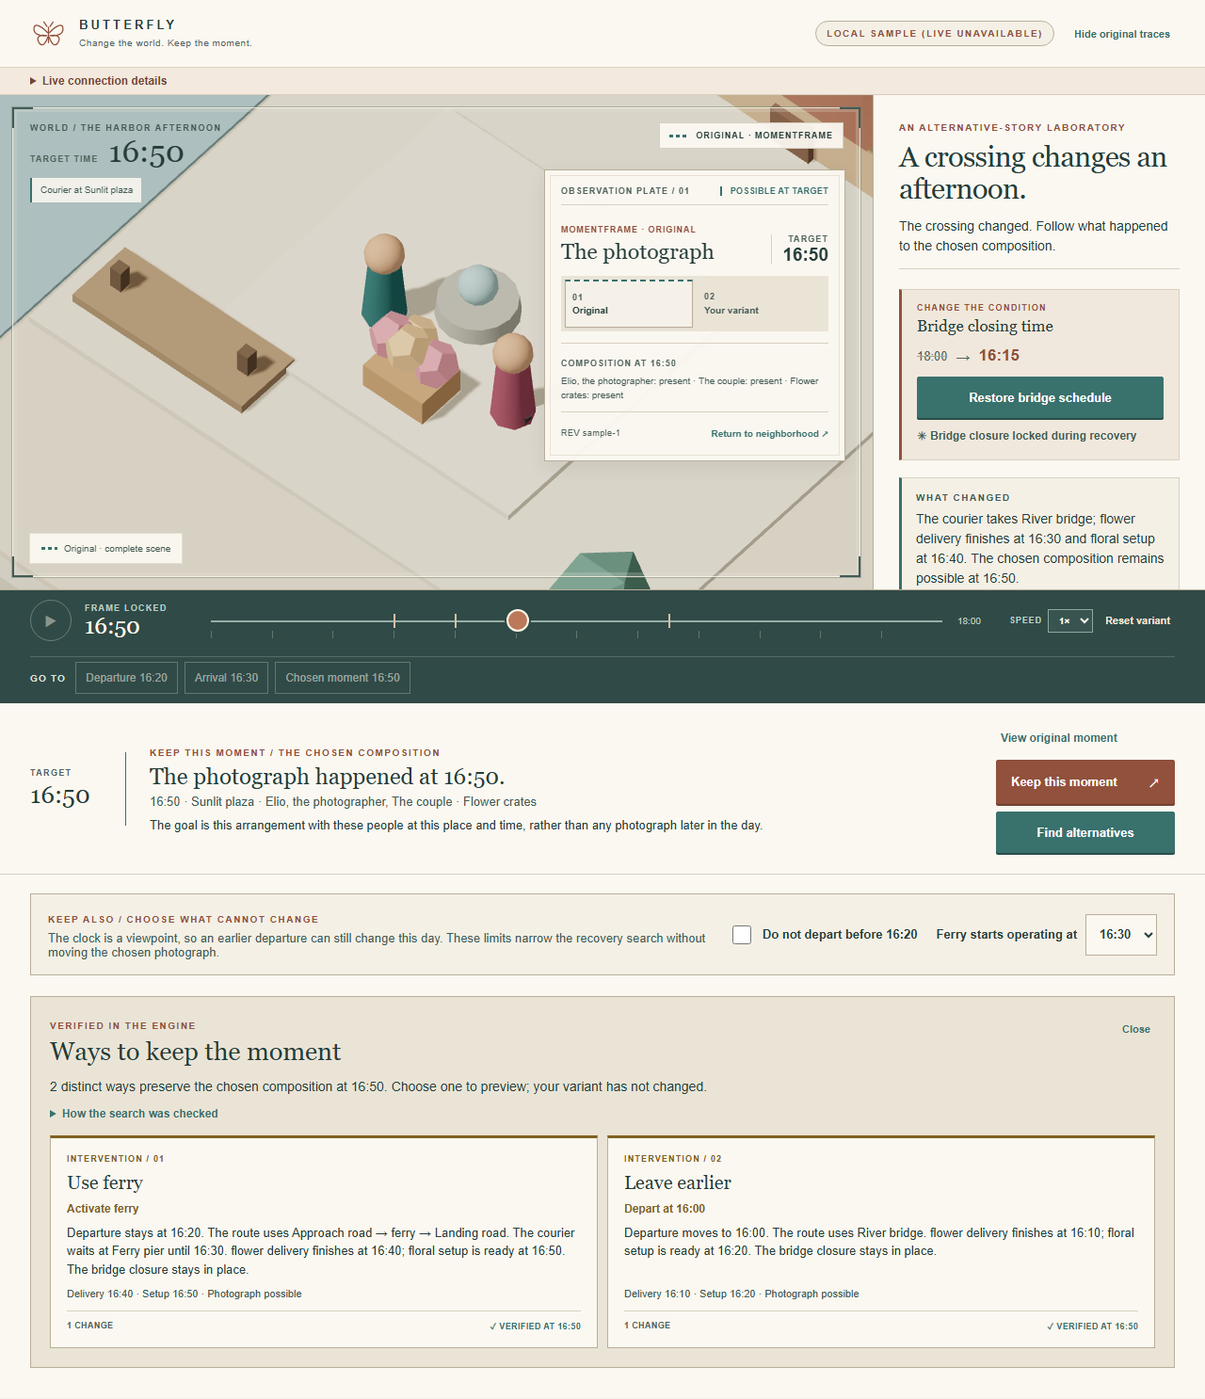
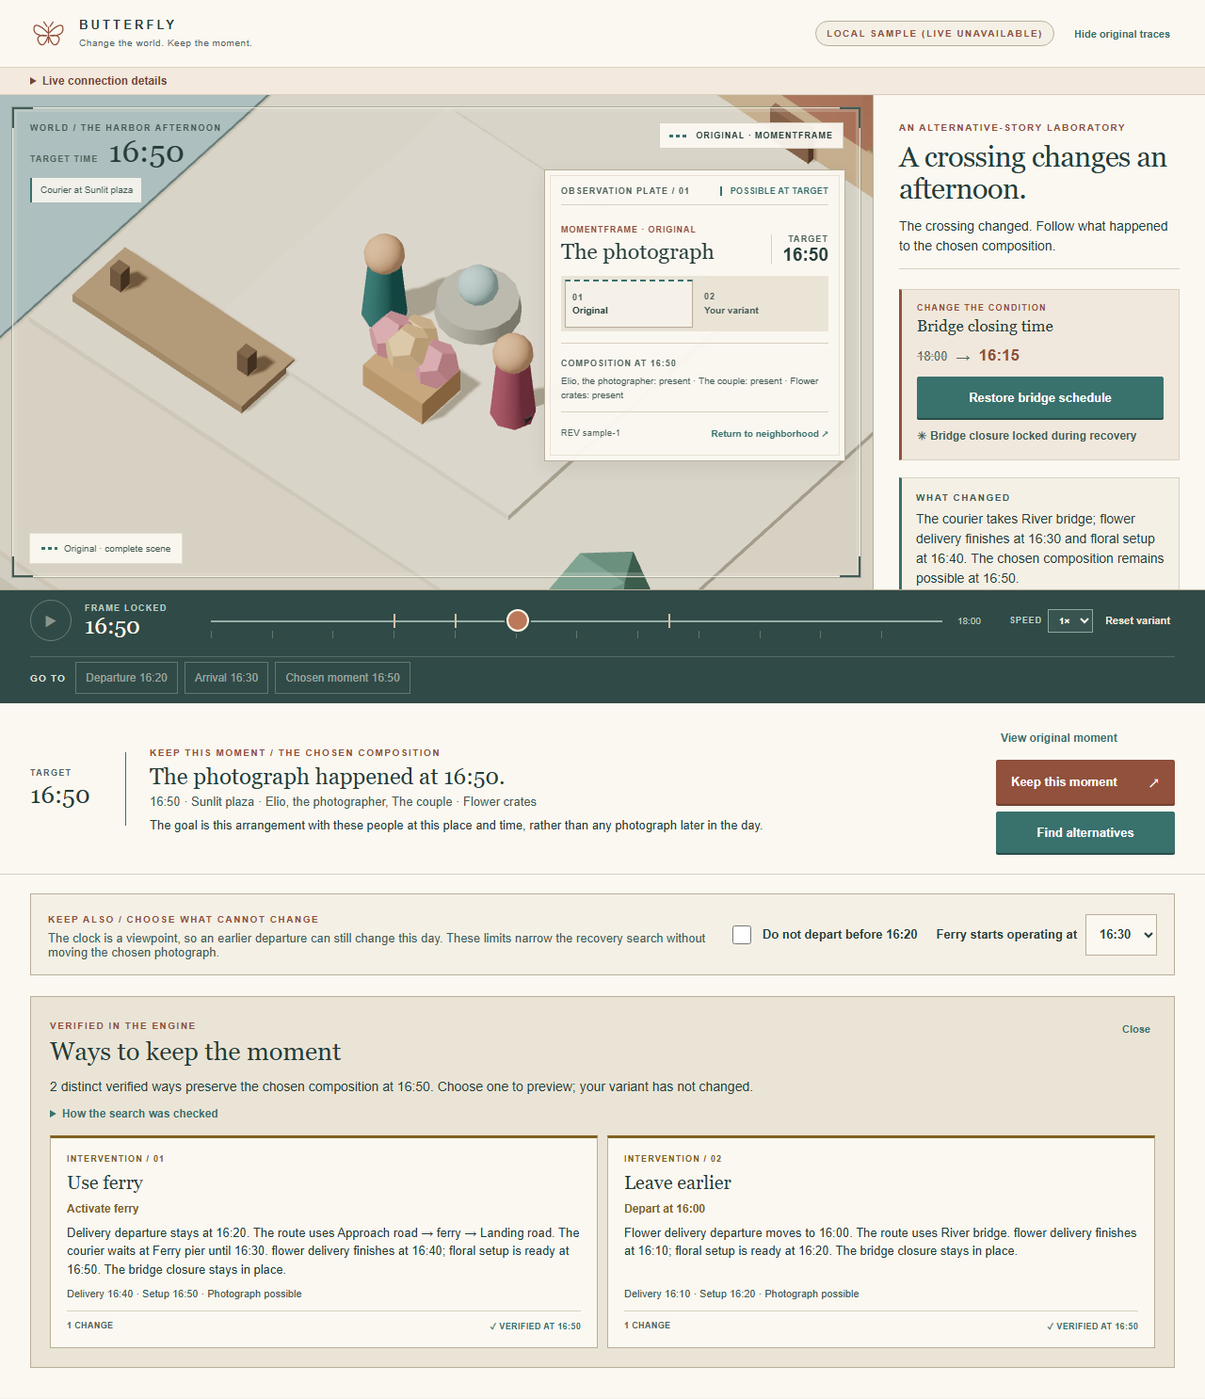
Correct recovery counts and event-specific explanations

Changed region(s): [[0.0625, 0.8668, 0.4688, 0.9287], [0.0938, 0.7739, 0.625, 0.8048], [0.5, 0.8668, 0.9375, 0.8977]]

diff --git a/src/ui/Experience.tsx b/src/ui/Experience.tsx
@@ -548,16 +548,16 @@ export default function Experience({ initialWorld, source, error }: { initialWor
               <div><span className="eyebrow">VERIFIED IN THE ENGINE</span><h2>{search.status === "found" ? "Ways to keep the moment" : search.status === "limit-reached" && search.alternatives.length ? "Verified options from a partial search" : search.status === "already-satisfied" ? "Already possible" : search.status === "indeterminate" ? "Result indeterminate" : "No alternative in this domain"}</h2></div>
               <button className="quiet" onClick={() => { setSearch(null); setPreviewId(null); setSceneVersion("variant"); }}>Close</button>
             </div>
-            <p className="search-outcome">{search.status === "found" ? `${search.alternatives.length} distinct ways preserve the chosen composition at ${displayTime(goal.time)}. Choose one to preview; your variant has not changed.` : search.status === "exhausted" ? `With these limits, none of the ${search.domainSize} allowed candidate changes preserves the composition at ${displayTime(goal.time)}. You can allow an earlier departure or change the ferry opening. This conclusion covers only the configured domain.` : search.status === "already-satisfied" ? "Your current variant already preserves the chosen composition." : search.status === "limit-reached" ? "The candidate limit was reached. The remaining domain has not been checked." : "Incomplete world data leaves the result unsettled."}</p>
-            <details className="search-method"><summary>How the search was checked</summary><p>Checked {search.examined} of {search.domainSize} candidates, with at most {search.maxInterventions} interventions and a limit of {search.maxCandidates} candidates. Fewer changes rank first, then smaller time shifts. {search.groupedCount} redundant combinations were omitted from the main cards because their extra operations did not change event outcomes, route IDs or article compatibility. Separate interventions remain separate cards. {search.status === "limit-reached" && "A reached limit does not prove impossibility."}</p></details>
+            <p className="search-outcome">{search.status === "found" ? `${search.meaningfulCount} distinct verified ${search.meaningfulCount === 1 ? "way preserves" : "ways preserve"} the chosen composition at ${displayTime(goal.time)}. ${search.meaningfulCount > search.alternatives.length ? `Showing the first ${search.alternatives.length} intervention cards. ` : ""}Choose one to preview; your variant has not changed.` : search.status === "exhausted" ? `With these limits, none of the ${search.domainSize} allowed candidate changes preserves the composition at ${displayTime(goal.time)}. You can allow an earlier departure or change the ferry opening. This conclusion covers only the configured domain.` : search.status === "already-satisfied" ? "Your current variant already preserves the chosen composition." : search.status === "limit-reached" ? "The candidate limit was reached. The remaining domain has not been checked." : "Incomplete world data leaves the result unsettled."}</p>
+            <details className="search-method"><summary>How the search was checked</summary><p>Checked {search.examined} of {search.domainSize} candidates, with at most {search.maxInterventions} interventions and a limit of {search.maxCandidates} candidates. Fewer changes rank first, then smaller time shifts. {search.meaningfulCount} nonredundant verified intervention choices were found among the checked candidates; {search.alternatives.length} are shown as cards. {search.groupedCount} redundant combinations were omitted from the main cards because their extra operations did not change event outcomes, route IDs or article compatibility. Separate interventions remain separate cards. {search.status === "limit-reached" && "A reached limit does not prove impossibility."}</p></details>
             <div className="cards">
               {search.alternatives.map((alternative, index) => {
                 const previewDelivery = getEvent(alternative.result, roles.deliveryEventId);
                 const previewSetup = getEvent(alternative.result, roles.setupEventId);
                 const changes = alternative.operations.map(operation => operation.type === "setEventTime"
-                  ? "Depart at " + displayTime(operation.value)
+                  ? operation.eventId === roles.deliveryEventId ? "Depart at " + displayTime(operation.value) : `Set ${initialWorld.events.find(event => event.id === operation.eventId)?.name ?? operation.eventId} departure to ${displayTime(operation.value)}`
                   : operation.type === "enableConnection" ? (operation.value ? "Activate " : "Deactivate ") + (initialWorld.connections.find(connection => connection.id === operation.connectionId)?.label ?? operation.connectionId) : "Open route at " + displayTime(operation.value));
-                const title = alternative.operations.map(operation => operation.type === "setEventTime" ? "Leave earlier" : operation.type === "enableConnection" ? "Use " + (initialWorld.connections.find(connection => connection.id === operation.connectionId)?.label ?? operation.connectionId) : "Adjust opening").join(" + ");
+                const title = alternative.operations.map(operation => operation.type === "setEventTime" ? operation.eventId === roles.deliveryEventId ? "Leave earlier" : `Reschedule ${initialWorld.events.find(event => event.id === operation.eventId)?.name ?? operation.eventId}` : operation.type === "enableConnection" ? "Use " + (initialWorld.connections.find(connection => connection.id === operation.connectionId)?.label ?? operation.connectionId) : "Adjust opening").join(" + ");
                 return (
                   <button key={alternative.id} className={"alternative " + (previewId === alternative.id ? "chosen" : "")} onClick={() => chooseAlternative(alternative.id)} aria-label={changes.join(" and ")} aria-pressed={previewId === alternative.id}>
                     <span className="alternative-index">INTERVENTION / {String(index + 1).padStart(2, "0")}</span>

diff --git a/src/engine/search.ts b/src/engine/search.ts
@@ -3,7 +3,7 @@ import { compare, getEvent, simulate, type Simulation } from "./simulate";
 
 export type Goal = { eventId: string; time: number; placeId: string; requiredTypes: string[] };
 export type Alternative = { id: string; operations: Operation[]; result: Simulation; differences: ReturnType<typeof compare>; shiftMinutes: number };
-export type SearchResult = { status: "already-satisfied" | "found" | "exhausted" | "limit-reached" | "indeterminate"; alternatives: Alternative[]; groupedCount: number; examined: number; domainSize: number; maxCandidates: number; maxInterventions: number };
+export type SearchResult = { status: "already-satisfied" | "found" | "exhausted" | "limit-reached" | "indeterminate"; alternatives: Alternative[]; meaningfulCount: number; groupedCount: number; examined: number; domainSize: number; maxCandidates: number; maxInterventions: number };
 export type SearchConstraints = { departureNotBefore?: { eventId: string; minute: number } };
 export type SearchOptions = { maxCandidates?: number; maxInterventions?: number; constraints?: SearchConstraints };
 
@@ -24,7 +24,7 @@ export function keepThisMoment(world: World, currentPatch: RealityPatch, goal: G
   if (departure && (variant.events.find(event => event.id === departure.eventId)?.at ?? -1) < departure.minute) throw new Error("Current variant violates the departure constraint");
   const bounds = { examined: 0, domainSize: 0, maxCandidates: options.maxCandidates ?? 30, maxInterventions: options.maxInterventions ?? 2 };
   if (!Number.isInteger(bounds.maxCandidates) || bounds.maxCandidates < 0 || !Number.isInteger(bounds.maxInterventions) || bounds.maxInterventions < 1) throw new Error("Invalid search limit");
-  if (getEvent(baseline, goal.eventId).status === "possible") return { status: "already-satisfied", alternatives: [], groupedCount: 0, ...bounds };
+  if (getEvent(baseline, goal.eventId).status === "possible") return { status: "already-satisfied", alternatives: [], meaningfulCount: 0, groupedCount: 0, ...bounds };
   const operations: Operation[] = [];
   for (const i of variant.interventions) {
     if (i.type === "setEventTime") for (const value of i.values) if (value !== variant.events.find(e => e.id === i.eventId)?.at && (i.eventId !== departure?.eventId || value >= departure.minute)) operations.push({ type: "setEventTime", eventId: i.eventId, value });
@@ -57,7 +57,7 @@ export function keepThisMoment(world: World, currentPatch: RealityPatch, goal: G
     if (redundant) groupedCount++;
     else meaningful.push(alternative);
   }
-  return { status: bounds.examined < bounds.domainSize ? "limit-reached" : meaningful.length ? "found" : unknown ? "indeterminate" : "exhausted", alternatives: meaningful.slice(0, 3), groupedCount, ...bounds };
+  return { status: bounds.examined < bounds.domainSize ? "limit-reached" : meaningful.length ? "found" : unknown ? "indeterminate" : "exhausted", alternatives: meaningful.slice(0, 3), meaningfulCount: meaningful.length, groupedCount, ...bounds };
 }
 
 export function applyAlternative(world: World, patch: RealityPatch, goal: Goal, chosen: Alternative, options: SearchOptions = {}): RealityPatch {

diff --git a/tests/experience-clarity.test.ts b/tests/experience-clarity.test.ts
@@ -22,6 +22,21 @@ describe("a clearer recovery domain", () => {
     expect(search.alternatives.map(alternative => getEvent(alternative.result, "delivery").route?.connectionIds)).toEqual([["land-to-pier", "ferry", "landing-road"], ["bridge"]]);
   });
 
+  it("reports the full distinct count when the card selection is capped", () => {
+    const expanded = structuredClone(sampleWorld);
+    const overland = expanded.connections.find(connection => connection.id === "land")!;
+    for (const [id, duration] of [["short-road", 20], ["fast-road", 15]] as const) {
+      expanded.connections.push({ ...structuredClone(overland), id, label: id, duration, enabled: false });
+      expanded.interventions.push({ type: "enableConnection", connectionId: id, values: [true], precondition: { requiredMode: "van" } });
+    }
+    const result = keepThisMoment(validateWorld(expanded), closed, goal);
+    expect(result.status).toBe("found");
+    expect(result.examined).toBe(result.domainSize);
+    expect(result.meaningfulCount).toBeGreaterThan(3);
+    expect(result.alternatives).toHaveLength(3);
+    expect(result.meaningfulCount).toBeGreaterThan(result.alternatives.length);
+  });
+
   it("honors a departure limit and recomputes a later ferry opening", () => {
     const limited = keepThisMoment(sampleWorld, closed, goal, departureLimit);
     expect(limited.alternatives).toHaveLength(1);
@@ -58,5 +73,19 @@ describe("a clearer recovery domain", () => {
     expect(explainDay(applyPatch(world, closed), simulate(applyPatch(world, closed)))).toContain("Hillside lane");
     const ferry = keepThisMoment(sampleWorld, closed, goal).alternatives.find(alternative => alternative.operations.some(operation => operation.type === "enableConnection"))!;
     expect(explainIntervention(applyPatch(sampleWorld, closed), ferry.result, ferry.operations)).toContain("16:40");
+  });
+
+  it("names the actual transport when a time intervention does not move the delivery", () => {
+    const expanded = structuredClone(sampleWorld);
+    expanded.events.push({ id: "scout", worldId: expanded.id, kind: "transport", name: "Scout trip", at: 20, from: "depot", to: "plaza", mode: "van", actorIds: [], requirements: [], effects: [] });
+    expanded.interventions.push({ type: "setEventTime", eventId: "scout", values: [0, 20], precondition: { minAvailableAt: 0 } });
+    const world = validateWorld(expanded);
+    const operation = { type: "setEventTime" as const, eventId: "scout", value: 0 };
+    const variant = applyPatch(world, closed);
+    const preview = simulate(applyPatch(variant, { worldId: world.id, baseRevision: world.baseRevision, operations: [operation] }, closed.operations));
+    const explanation = explainIntervention(variant, preview, [operation]);
+    expect(explanation).toContain("Scout trip departure moves to 16:00");
+    expect(explanation).not.toContain("Flower delivery departure moves");
+    expect(getEvent(preview, "delivery").time).toBe(55);
   });
 });

diff --git a/src/ui/story.ts b/src/ui/story.ts
@@ -27,8 +27,10 @@ export function explainIntervention(world: World, result: Simulation, operations
   const setup = getEvent(result, world.presentation.roles.setupEventId);
   const route = delivery.route?.connectionIds.map(id => world.connections.find(connection => connection.id === id)?.label ?? id).join(" → ");
   const wait = delivery.route?.itinerary.find(step => step.kind === "wait");
-  const departure = operations.find((operation): operation is Extract<Operation, { type: "setEventTime" }> => operation.type === "setEventTime");
-  const action = departure ? `Departure moves to ${clock(world, departure.value)}. ` : `Departure stays at ${clock(world, delivery.route?.plannedDepart ?? null)}. `;
+  const departures = operations.filter((operation): operation is Extract<Operation, { type: "setEventTime" }> => operation.type === "setEventTime");
+  const action = departures.length
+    ? departures.map(operation => `${world.events.find(event => event.id === operation.eventId)?.name ?? operation.eventId} departure moves to ${clock(world, operation.value)}. `).join("")
+    : `Delivery departure stays at ${clock(world, delivery.route?.plannedDepart ?? null)}. `;
   const waiting = wait?.kind === "wait" ? `The courier waits at ${world.entities.find(entity => entity.id === wait.placeId)?.name ?? wait.placeId} until ${clock(world, wait.end)}. ` : "";
   return `${action}${route ? `The route uses ${route}. ` : ""}${waiting}${name(delivery.name)} finishes at ${clock(world, delivery.time)}; ${name(setup.name)} is ready at ${clock(world, setup.time)}. The bridge closure stays in place.`;
 }

diff --git a/README.md b/README.md
@@ -39,7 +39,7 @@ Playwright saves journey screenshots in `screenshots/`. The scene uses one WebGL
 
 The engine uses integer minutes from the explicit `originMinute`. Availability starts are inclusive; a connection cannot depart at its exclusive end, but a crossing that finishes exactly at the end is valid. A prerequisite completed exactly when an event begins is satisfied. Earliest-arrival routing allows waits at intermediate places and requires each connection to remain available for its full crossing. The returned itinerary records planned and actual departures, waits and individually timed road, bridge and ferry geometry. Visual position is sampled by distance along each path, with the same fractional playhead used by every scene version. Stable connection IDs break equal-arrival ties. Effects occur only for possible events. A missing fact, unresolved movement or incomplete network yields `unknown` where appropriate; unresolved locations do not create ghost actors. No event is moved automatically when it becomes impossible.
 
-The sample has a 10 minute bridge path and 35 minute overland path. The pre-existing ferry alternative takes 20 elapsed minutes: 5 minutes to the pier, a 5 minute wait for its 16:30 operating window, 7 minutes across the water and 3 minutes to the plaza. Setup takes 10 minutes after delivery. The other recovery departs at 16:00 and completes the bridge crossing by 16:10. The search enumerates finite intervention values, at most two interventions and 30 candidates by default. Every candidate is simulated against the current variant. Results are ordered by fewer interventions, then smaller total event time shifts, then stable ID. A combination is omitted from the main cards only when its extra operations leave modeled event times/statuses, route IDs and article compatibility unchanged relative to a simpler candidate. Independent interventions remain distinct. A visitor's departure bound filters the search domain, while the ferry opening is an allowlisted local world patch locked during that search. This is an explored finite domain, not a claim of global optimality. Preview leaves the variant untouched. Apply repeats the search against the anchored revision, patch and current constraint.
+The sample has a 10 minute bridge path and 35 minute overland path. The pre-existing ferry alternative takes 20 elapsed minutes: 5 minutes to the pier, a 5 minute wait for its 16:30 operating window, 7 minutes across the water and 3 minutes to the plaza. Setup takes 10 minutes after delivery. The other recovery departs at 16:00 and completes the bridge crossing by 16:10. The search enumerates finite intervention values, at most two interventions and 30 candidates by default. Every candidate is simulated against the current variant. Results are ordered by fewer interventions, then smaller total event time shifts, then stable ID. A combination is omitted from the main cards only when its extra operations leave modeled event times/statuses, route IDs and article compatibility unchanged relative to a simpler candidate. Independent interventions remain distinct. The interface shows the first three verified cards and reports the full count of nonredundant intervention choices in the checked domain. A visitor's departure bound filters the search domain, while the ferry opening is an allowlisted local world patch locked during that search. This is an explored finite domain, not a claim of global optimality. Preview leaves the variant untouched. Apply repeats the search against the anchored revision, patch and current constraint.
 
 The featured event, its authored time and place, actor/prop IDs, composition positions, story artifact, presentation roles and event order are world data. MomentFrame switches coherent world and simulation pairs at that same target time. The frame consults actual actor and prop positions: a composition coordinate is used only when the entity is at the required place; an impossible or uncertain entity is not rendered as a solid participant. A missed moment remains available in a separate Original view. While MomentFrame is open, scene, inspector, event labels, accessible summary and clock all stay at the target time; seek and playback controls are disabled until the visitor returns to the neighborhood. Display clocks round to the nearest minute; simulation comparisons retain fractional minutes.
 
@@ -63,7 +63,7 @@ Seed uses `createIfNotExists` and does not replace editorial edits. Publication 
 
 ## Current status and limits
 
-The local journey, 48 behavior tests, six browser flows, Studio schemas, adapter, Director and publication CLI are implemented. The configured Sanity project permits published anonymous reads, but its authenticated CLI user was denied `create` on the existing `production` dataset. No Butterfly authoring document or revision was created, and no live world was read or published. The Studio browser check opens at `http://localhost:3000/studio`, which is listed in Sanity CORS; `127.0.0.1` is a separate origin. The browser reaches Sanity's login/provider UI, but Studio authentication and live authoring have not been tested. Browser screenshots use the local fixture while the UI honestly displays the live-unavailable state. This first world supports positive-duration paths, timed route segments and waits, fixed and dependent events, typed facts and a bounded intervention catalog. It rejects cycles and contradictory input facts. It does not model arbitrary city economies, transit capacity, simultaneous resource contention or incremental simulation. Visuals are an original procedural kit; there are no third-party art assets. Google Fonts are loaded at runtime with system fallbacks.
+The local journey, 50 behavior tests, six browser flows, Studio schemas, adapter, Director and publication CLI are implemented. The configured Sanity project permits published anonymous reads, but its authenticated CLI user was denied `create` on the existing `production` dataset. No Butterfly authoring document or revision was created, and no live world was read or published. The Studio browser check opens at `http://localhost:3000/studio`, which is listed in Sanity CORS; `127.0.0.1` is a separate origin. The browser reaches Sanity's login/provider UI, but Studio authentication and live authoring have not been tested. Browser screenshots use the local fixture while the UI honestly displays the live-unavailable state. This first world supports positive-duration paths, timed route segments and waits, fixed and dependent events, typed facts and a bounded intervention catalog. It rejects cycles and contradictory input facts. It does not model arbitrary city economies, transit capacity, simultaneous resource contention or incremental simulation. Visuals are an original procedural kit; there are no third-party art assets. Google Fonts are loaded at runtime with system fallbacks.
 
 The current lockfile has 14 npm audit findings, including 3 high findings in Sanity CLI transitive dependencies. Compatible dependency updates were applied; see the build notes for what remains.
 

diff --git a/docs/BUILD_NOTES.md b/docs/BUILD_NOTES.md
@@ -106,3 +106,9 @@ The first browser run revealed that the existing dev server, started on `0.0.0.0
 Final checks for this pass: `npm run typecheck` and `npm run lint` passed without errors or warnings; `npm test` passed 48/48 behavior tests across seven files; `npm run test:browser` passed 6/6 Chromium flows; `npm run build` passed. Playwright covers the original → closure → missed MomentFrame → search → preview → Apply → reset journey, constrained exhaustion and release, keyboard/time controls, mobile reduced motion, Studio connection state, and the complete recovery without WebGL. The journey, constrained and mobile flows collect page and console errors and reported none. The regenerated screenshots were opened: `00-first-visit-desktop.png` shows the original arrangement at 16:50, `02-bridge-closed-missed-desktop.png` shows its absence with the 16:55/17:05 explanation, `05-ferry-recovery-preview-desktop.png` shows the arrangement restored at 16:50, `09-recovery-mobile.png` keeps the scene and intervention cards readable, `11-limits-exhausted-desktop.png` shows the finite-domain result, and `12-text-only-recovery-desktop.png` shows a readable fallback beside MomentFrame. The ferry preview and applied variant retain the 16:15 bridge closure.
 
 After the production build, `npm run start -- --hostname 0.0.0.0` served the app on port 3000. A fresh Chromium load at `127.0.0.1:3000` found the rendered canvas and scene-ready marker with no page, console or failed-request output. The production server was left running for local review.
+
+## PR #3 review corrections
+
+Codex's review of `b80d10e` found two inaccurate descriptions. The search displayed at most three cards but used that count as if it were the full number of nonredundant verified choices; it now returns `meaningfulCount` before the display cap and states both the total and the number shown. Time interventions now name their actual transport event in the narrative and card labels, so an authored intervention on another transport is not described as moving the flower delivery. Regression tests extend the catalog beyond three nonredundant outcomes and add a second transport.
+
+Verification after the corrections: `npm run typecheck`, `npm run lint`, `npm test` (50/50), `npm run build`, and `npm run test:browser` (6/6 Chromium flows) passed. The regenerated recovery-preview screenshot was opened and shows two distinct options, the correct 16:40/16:50 ferry timing, the selected preview, and the locked 16:15 bridge closure. The final production server remains on port 3000 for local review.
